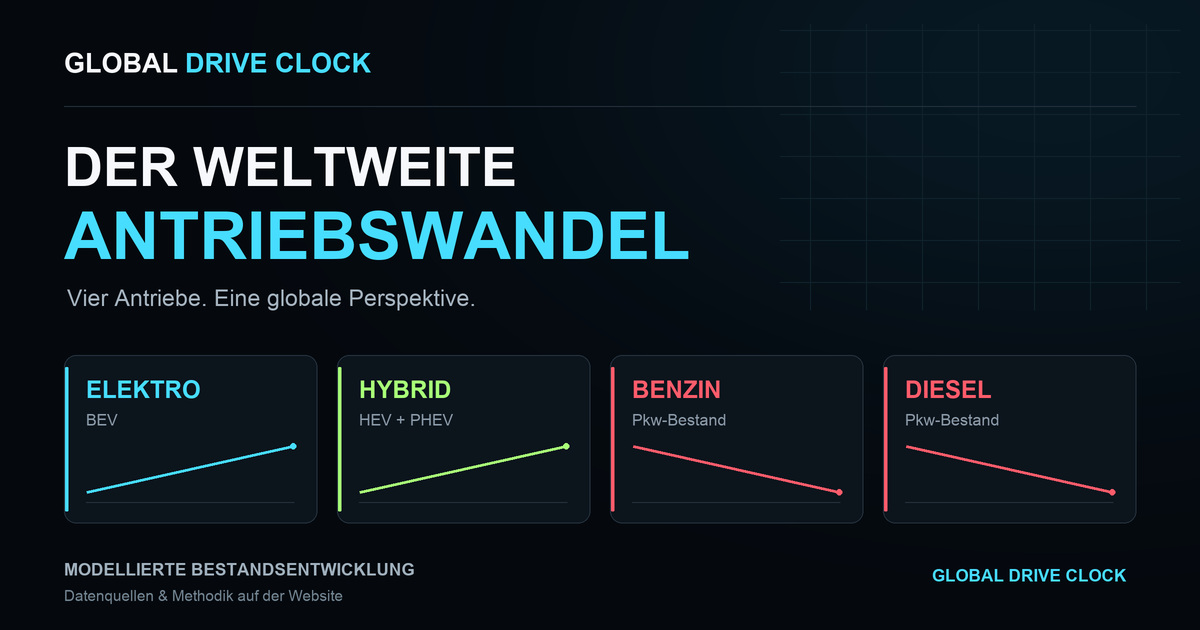
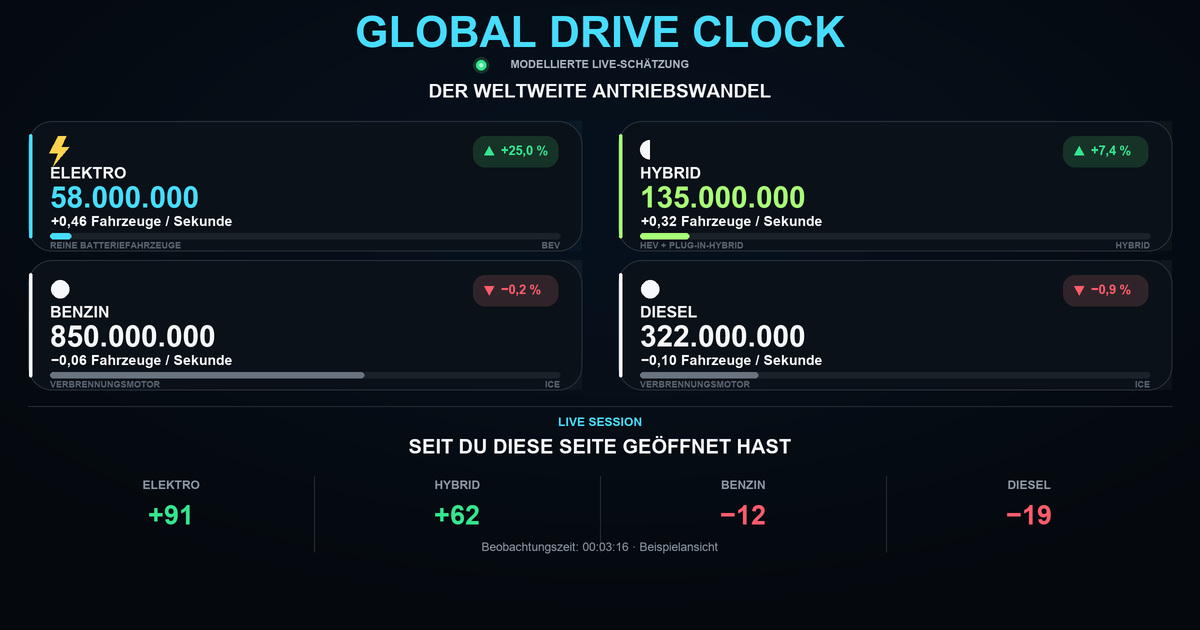
Add files via upload

diff --git a/index.html b/index.html
@@ -11,18 +11,18 @@
   <meta property="og:title" content="Global Drive Clock – Der weltweite Antriebswandel">
   <meta property="og:description" content="Der weltweite Antriebswandel: modellierte Entwicklung des Pkw-Bestands für Elektro, Hybrid, Benzin und Diesel. Mit Datenquellen und Methodik.">
   <meta property="og:url" content="https://der-elektroauto-typ.github.io/global-drive-clock/">
-  <meta property="og:image" content="https://der-elektroauto-typ.github.io/global-drive-clock/social-preview.jpg">
+  <meta property="og:image" content="https://der-elektroauto-typ.github.io/global-drive-clock/social-preview.jpg?preview=homepage-session?preview=homepage-cards?preview=homepage-cards">
   <meta property="og:image:width" content="1200">
   <meta property="og:image:height" content="630">
   <meta property="og:image:type" content="image/jpeg">
-  <meta property="og:image:alt" content="Global Drive Clock: Der weltweite Antriebswandel mit Elektro, Hybrid, Benzin und Diesel. Modellierte Bestandsentwicklung.">
+  <meta property="og:image:alt" content="Global Drive Clock im Homepage-Stil mit vier Modellzählern und einer beispielhaften Live-Session-Ansicht.">
   <meta name="twitter:card" content="summary_large_image">
   <meta name="twitter:title" content="Global Drive Clock – Der weltweite Antriebswandel">
   <meta name="twitter:description" content="Der weltweite Antriebswandel: modellierte Entwicklung des Pkw-Bestands für Elektro, Hybrid, Benzin und Diesel. Mit Datenquellen und Methodik.">
-  <meta name="twitter:image" content="https://der-elektroauto-typ.github.io/global-drive-clock/social-preview.jpg">
-  <meta name="twitter:image:alt" content="Global Drive Clock: Elektro, Hybrid, Benzin und Diesel im Vergleich. Modellierte Bestandsentwicklung.">
+  <meta name="twitter:image" content="https://der-elektroauto-typ.github.io/global-drive-clock/social-preview.jpg?preview=homepage-session?preview=homepage-cards?preview=homepage-cards">
+  <meta name="twitter:image:alt" content="Global Drive Clock mit vier Modellzählern und einer beispielhaften Live-Session-Ansicht.">
   <title>Global Drive Clock</title>
-  <link rel="stylesheet" href="style.css?v=2.5">
+  <link rel="stylesheet" href="style.css?v=2.6">
 </head>
 <body>
   <div class="language-switcher" id="languageSwitcher">
@@ -182,9 +182,10 @@
       <span>GLOBAL DRIVE CLOCK</span>
       <span data-i18n="footerNote">Modellierte Echtzeitschätzung – keine amtliche Live-Zählung</span>
     </footer>
+    <div class="copyright">© 2026 DER ELEKTROAUTO TYP · GLOBAL DRIVE CLOCK · ALL RIGHTS RESERVED</div>
   </main>
 
-  <script src="data.js?v=2.5"></script>
-  <script src="app.js?v=2.5"></script>
+  <script src="data.js?v=2.6"></script>
+  <script src="app.js?v=2.6"></script>
 </body>
 </html>

diff --git a/style.css b/style.css
@@ -867,3 +867,14 @@ html[lang="zh"] .brand-small {
   background: rgba(79,220,255,.09);
   border-color: rgba(79,220,255,.35);
 }
+
+
+/* V2.6 — copyright notice */
+.copyright {
+  padding: 12px 4px 0;
+  color: #59636e;
+  font-size: 9px;
+  line-height: 1.6;
+  text-align: center;
+  letter-spacing: .8px;
+}

diff --git a/README.md b/README.md
@@ -1,63 +1,11 @@
-# Global Drive Clock V2.5
+# Global Drive Clock V2.6
 
-V2.5 ergänzt Social Sharing auf Basis der veröffentlichten V2.4.
-Datenmodell, Methodik, alle 10 Sprachen, lokale Uhr/Zeitzone, Facebook-Link und die Laptop-/Smartphone-Anpassungen sind unverändert. style.css, app.js und data.js wurden bytegenau übernommen; die Modellversionsangabe bleibt bewusst V2.4.
+The social preview now follows the homepage style and includes a compact “Seit du diese Seite geöffnet hast” live-session area. Its displayed session values and observation time are a static example taken from the supplied screenshot; the social image cannot show a visitor-specific live session. The actual page continues to calculate the live session in the browser.
 
-## Dateien und Veröffentlichung
+No new software version is introduced. Site asset cache-busting remains at `?v=2.6`; the image URL uses a separate preview query to refresh social-platform caches. The copyright notice and `LICENSE`, data model, methodology, 10 languages, local clock/timezone, Facebook link, and responsive layout are retained.
 
-Die sechs Dateien index.html, style.css, app.js, data.js, README.md und social-preview.jpg in das Stammverzeichnis des GitHub-Pages-Repositories hochladen und vorhandene Dateien ersetzen. Das ZIP selbst muss nicht hochgeladen werden.
+## Publish
 
-Zieladresse: https://der-elektroauto-typ.github.io/global-drive-clock/
+Upload `index.html`, `style.css`, `app.js`, `data.js`, `README.md`, `LICENSE`, and `social-preview.jpg` to the root of the GitHub Pages repository, replacing the previous files.
 
-## Social Sharing
-
-- JPEG in 1200 × 630 Pixeln, passend zum dunklen Originaldesign.
-- Open Graph: Website, Titel, Beschreibung, Seiten-URL, absolute Bild-URL, Abmessungen, JPEG-Typ und Alternativtext.
-- Twitter/X: summary_large_image, Titel, Beschreibung, Bild und Alternativtext.
-- Canonical und Seitenbeschreibung im statischen HTML-Head, ohne JavaScript-Abhängigkeit.
-- CSS-/JavaScript-Cache-Busting: ?v=2.5.
-- Vorschaubild ohne Fahrzeugzahlen oder Behauptung einer Echtzeitmessung.
-
-Nach der Veröffentlichung müssen Seite und Bild öffentlich erreichbar sein. Sharing-Dienste können ältere Vorschauen zwischenspeichern; bei Facebook kann die URL im Sharing Debugger erneut abgerufen werden. Die tatsächliche Vorschau hängt auch von der jeweiligen App und dem Veröffentlichungsmodus ab.
-
-## Dokumentation des unveränderten V2.4-Modells
-
-
-V2.4 focuses on data integrity and laptop readability.
-
-## Data model
-
-Reference date: 2026-09-30
-
-Modeled global passenger-car fleet: 1.380 billion vehicles.
-
-Visible model categories:
-- BEV: 58.0m; modeled annual net change +14.5m
-- HEV + PHEV: 135.0m; modeled annual net change +10.0m
-- Petrol ICE incl. MHEV: 850.0m; modeled annual net change -2.0m
-- Diesel ICE incl. MHEV: 322.0m; modeled annual net change -3.0m
-
-Hidden but included in the global total:
-- Other (LPG/CNG/FCEV/etc.): 15.0m; +0.5m/year
-
-Total annual model change: +20.0m passenger cars.
-
-Percent trends and vehicles/second are no longer independently entered numbers.
-They are calculated in app.js from annualChange/base, preventing internal contradictions.
-
-## Published anchors
-
-- IEA Global EV Outlook 2026: >20m electric-car sales in 2025; around 5% of global car stock electrified; ~23m EV sales expected in 2026. IEA EV = BEV + PHEV.
-- IEA H1 2026 update: EV sales in H1 2026 were only slightly below H1 2025 despite a weaker overall car market.
-- ACEA: 77.6m worldwide passenger-car registrations in 2025.
-- VDA: 19.1m global new registrations with electric drive (BEV/PHEV/FCEV) in 2025; 12.7m were BEV.
-
-The worldwide split of the *entire existing fleet* into BEV / HEV+PHEV / petrol / diesel is not available as a harmonised current public census. Therefore these category stocks are explicitly disclosed as model estimates.
-
-## UI changes
-
-- Smaller desktop/laptop hero headline, optimized for 16-inch MacBook Pro.
-- V2.3 smartphone headline fix retained.
-- Expandable “Data & Methodology” section with primary-source links.
-- Existing language switcher, local timezone clock and Facebook link retained.
-- Cache-busting updated to V2.4.
+Site: https://der-elektroauto-typ.github.io/global-drive-clock/
